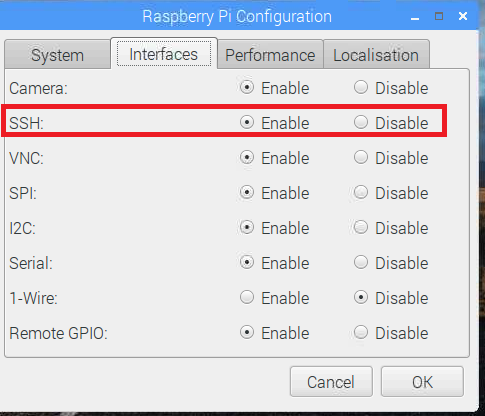
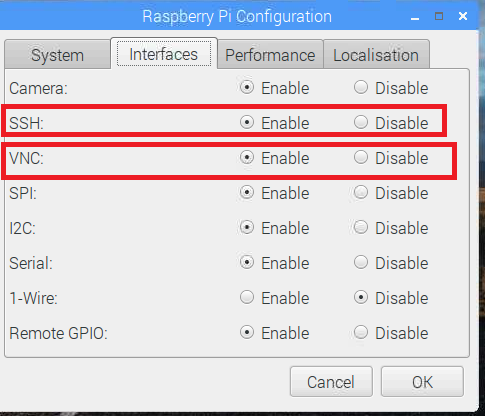
Updating documentation - StaticAddress.md

Changed region(s): [[0.0, 0.3438, 0.9588, 0.4375]]

diff --git a/docs/StaticAddress.md b/docs/StaticAddress.md
@@ -55,7 +55,7 @@ Type in the following to make changes in the conf file-
 Here, static ip_address needs to be the IP address that you would like to set, static routers would be your gateway address. While setting up the IP address of the PI, we need to make sure that the IP address is within the range of the gateway.
 
 
-Make sure that, you have SSH enabled in your RaspberryPi.This can be done by going to Raspberry PI configuration.
+Make sure that, you have SSH and VNC enabled in your RaspberryPi. This is needed to connect the PI remotely from your local machines,which can be done by going to Raspberry PI configuration.
 
 Go to the start screen of your PI, Preferences > Raspberry PI configuration
 <img src="./media/image22.png" width="450" height="400" />
